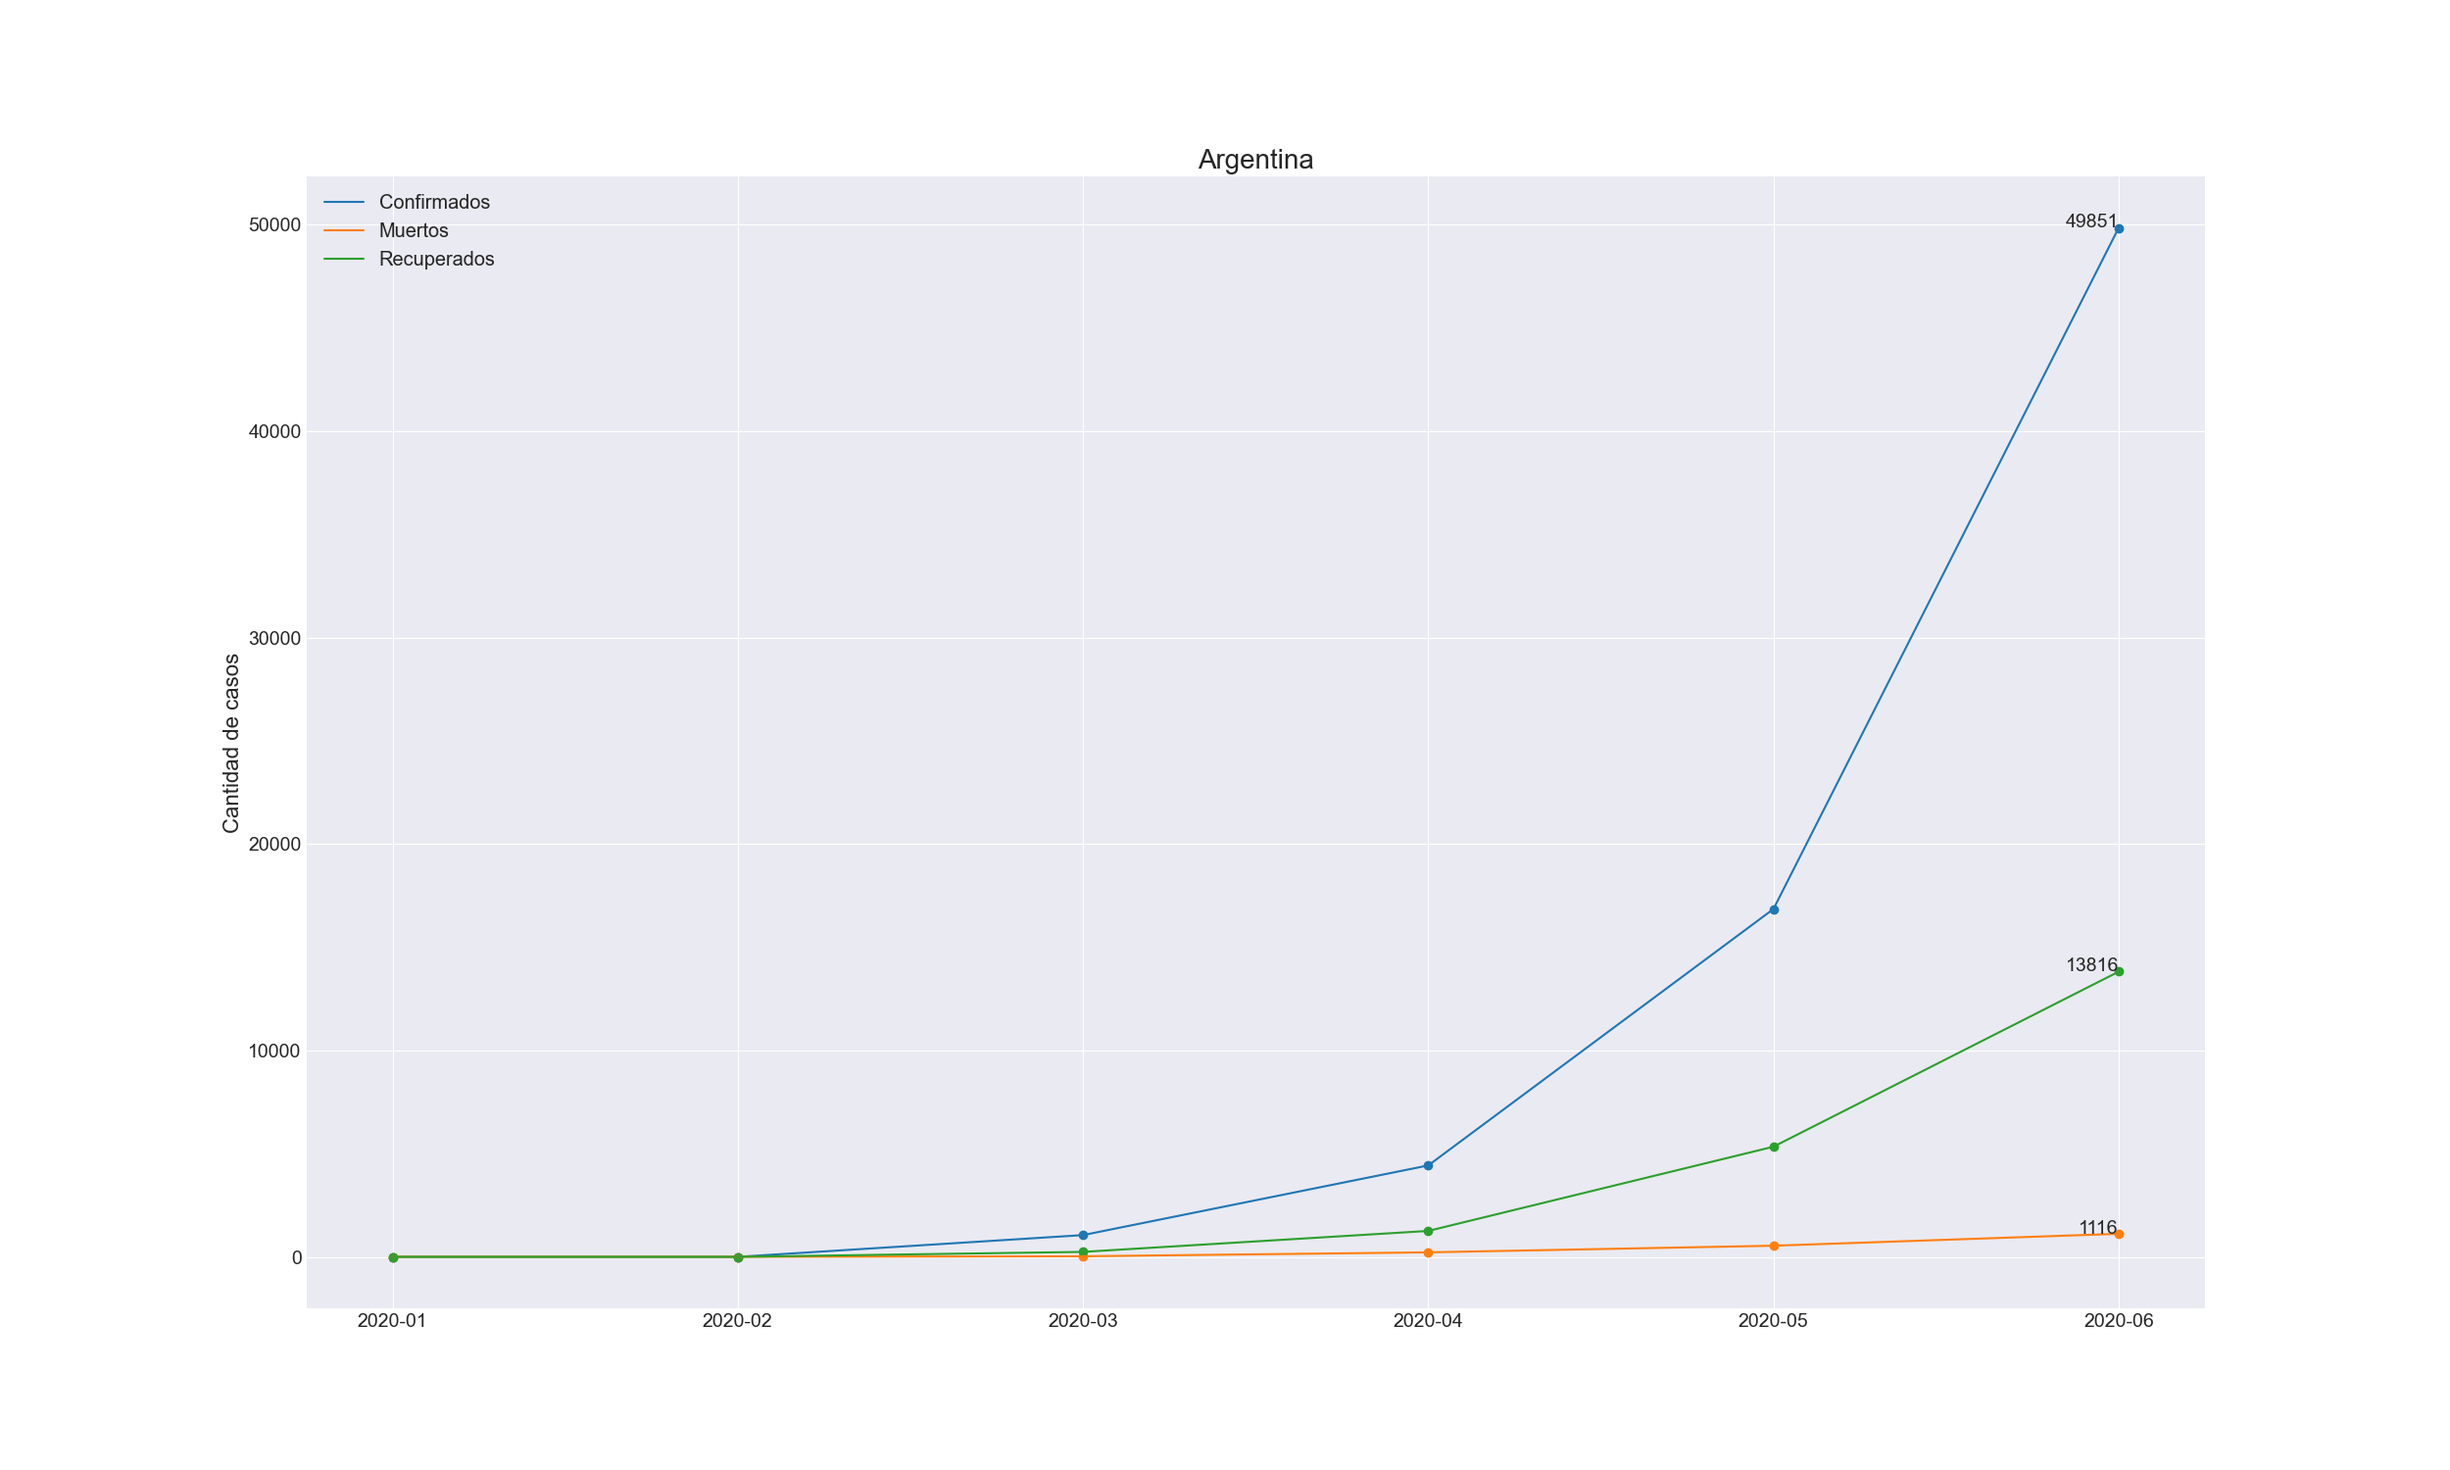
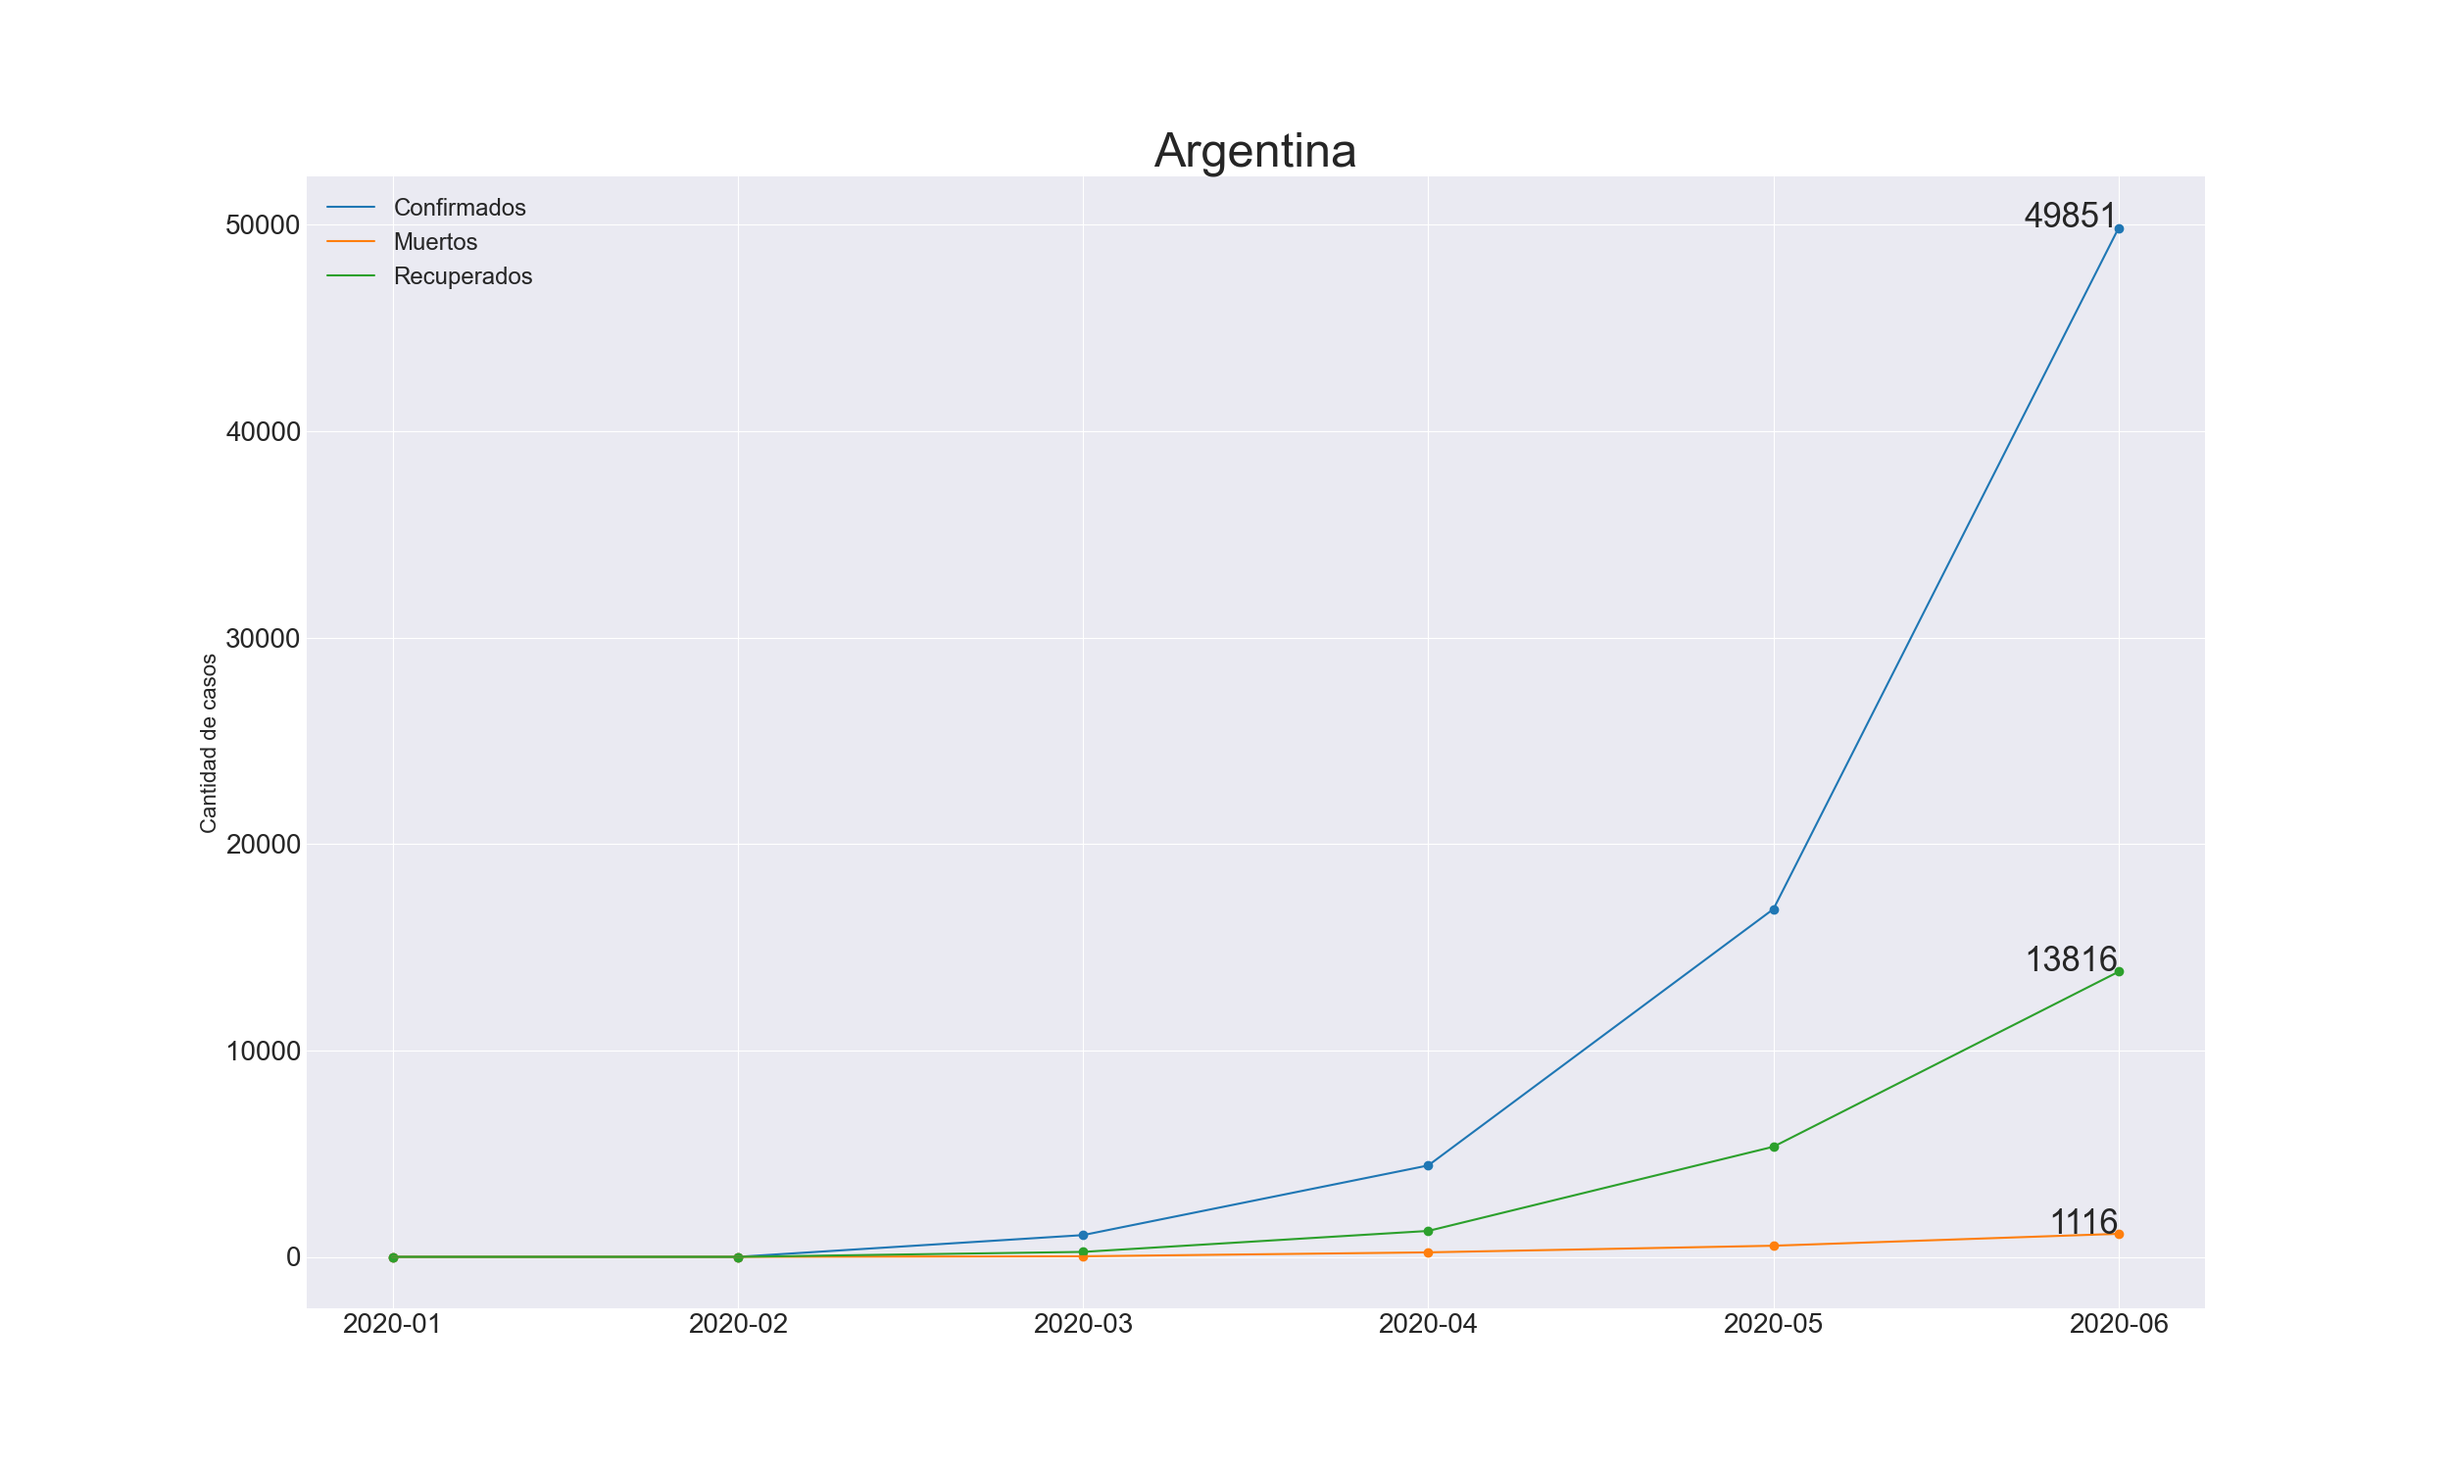
Fontzise img

diff --git a/app/data_plot/plot_data.py b/app/data_plot/plot_data.py
@@ -27,14 +27,14 @@ def plot_top(snap_data, ds1, ds2, ds3):
 
     rec1 = ax.bar(x, ds1, width, color='#3da5ff')
     rec2 = ax.bar(x, ds2, width, color='#49cc4c')
-    rec3 = ax.bar(x, ds3, width, color='#ff3e30')
+    rec3 = ax.bar(x, ds3, width, color='#f44336')
 
     autolabel(rec1)
     autolabel(rec2)
     autolabel(rec3)
 
     fig.tight_layout()
-    plt.legend(['Confirmados', 'Recuperados', 'Muertos'], fontsize='x-large')
+    plt.legend(['Confirmados', 'Recuperados', 'Muertos'], fontsize='medium')
     fig.savefig('app/static/img/top10.png')
 
 
@@ -44,10 +44,10 @@ def plot_arg(df):
     fig, ax = plt.subplots(figsize=(25, 15))
 
     ax.set_ylabel('Cantidad de casos', fontsize=16)
-    ax.set_title("Argentina", fontsize=20)
+    ax.set_title("Argentina", fontsize=35)
 
-    ax.tick_params(axis="x", labelsize=14)
-    ax.tick_params(axis="y", labelsize=14)
+    ax.tick_params(axis="x", labelsize=20)
+    ax.tick_params(axis="y", labelsize=20)
 
     for i in df.columns[:3]:
         ax.plot(df['Date'], df[i], label=i)
@@ -55,9 +55,9 @@ def plot_arg(df):
         ax.text(df['Date'].iloc[-1],
                 df[i].iloc[-1],
                 df[i].iloc[-1],
-                fontsize=14,
+                fontsize=25,
                 ha='right')
 
-    ax.legend(fontsize='x-large')
+    ax.legend(fontsize='xx-large')
 
     fig.savefig('app/static/img/arg.png')
